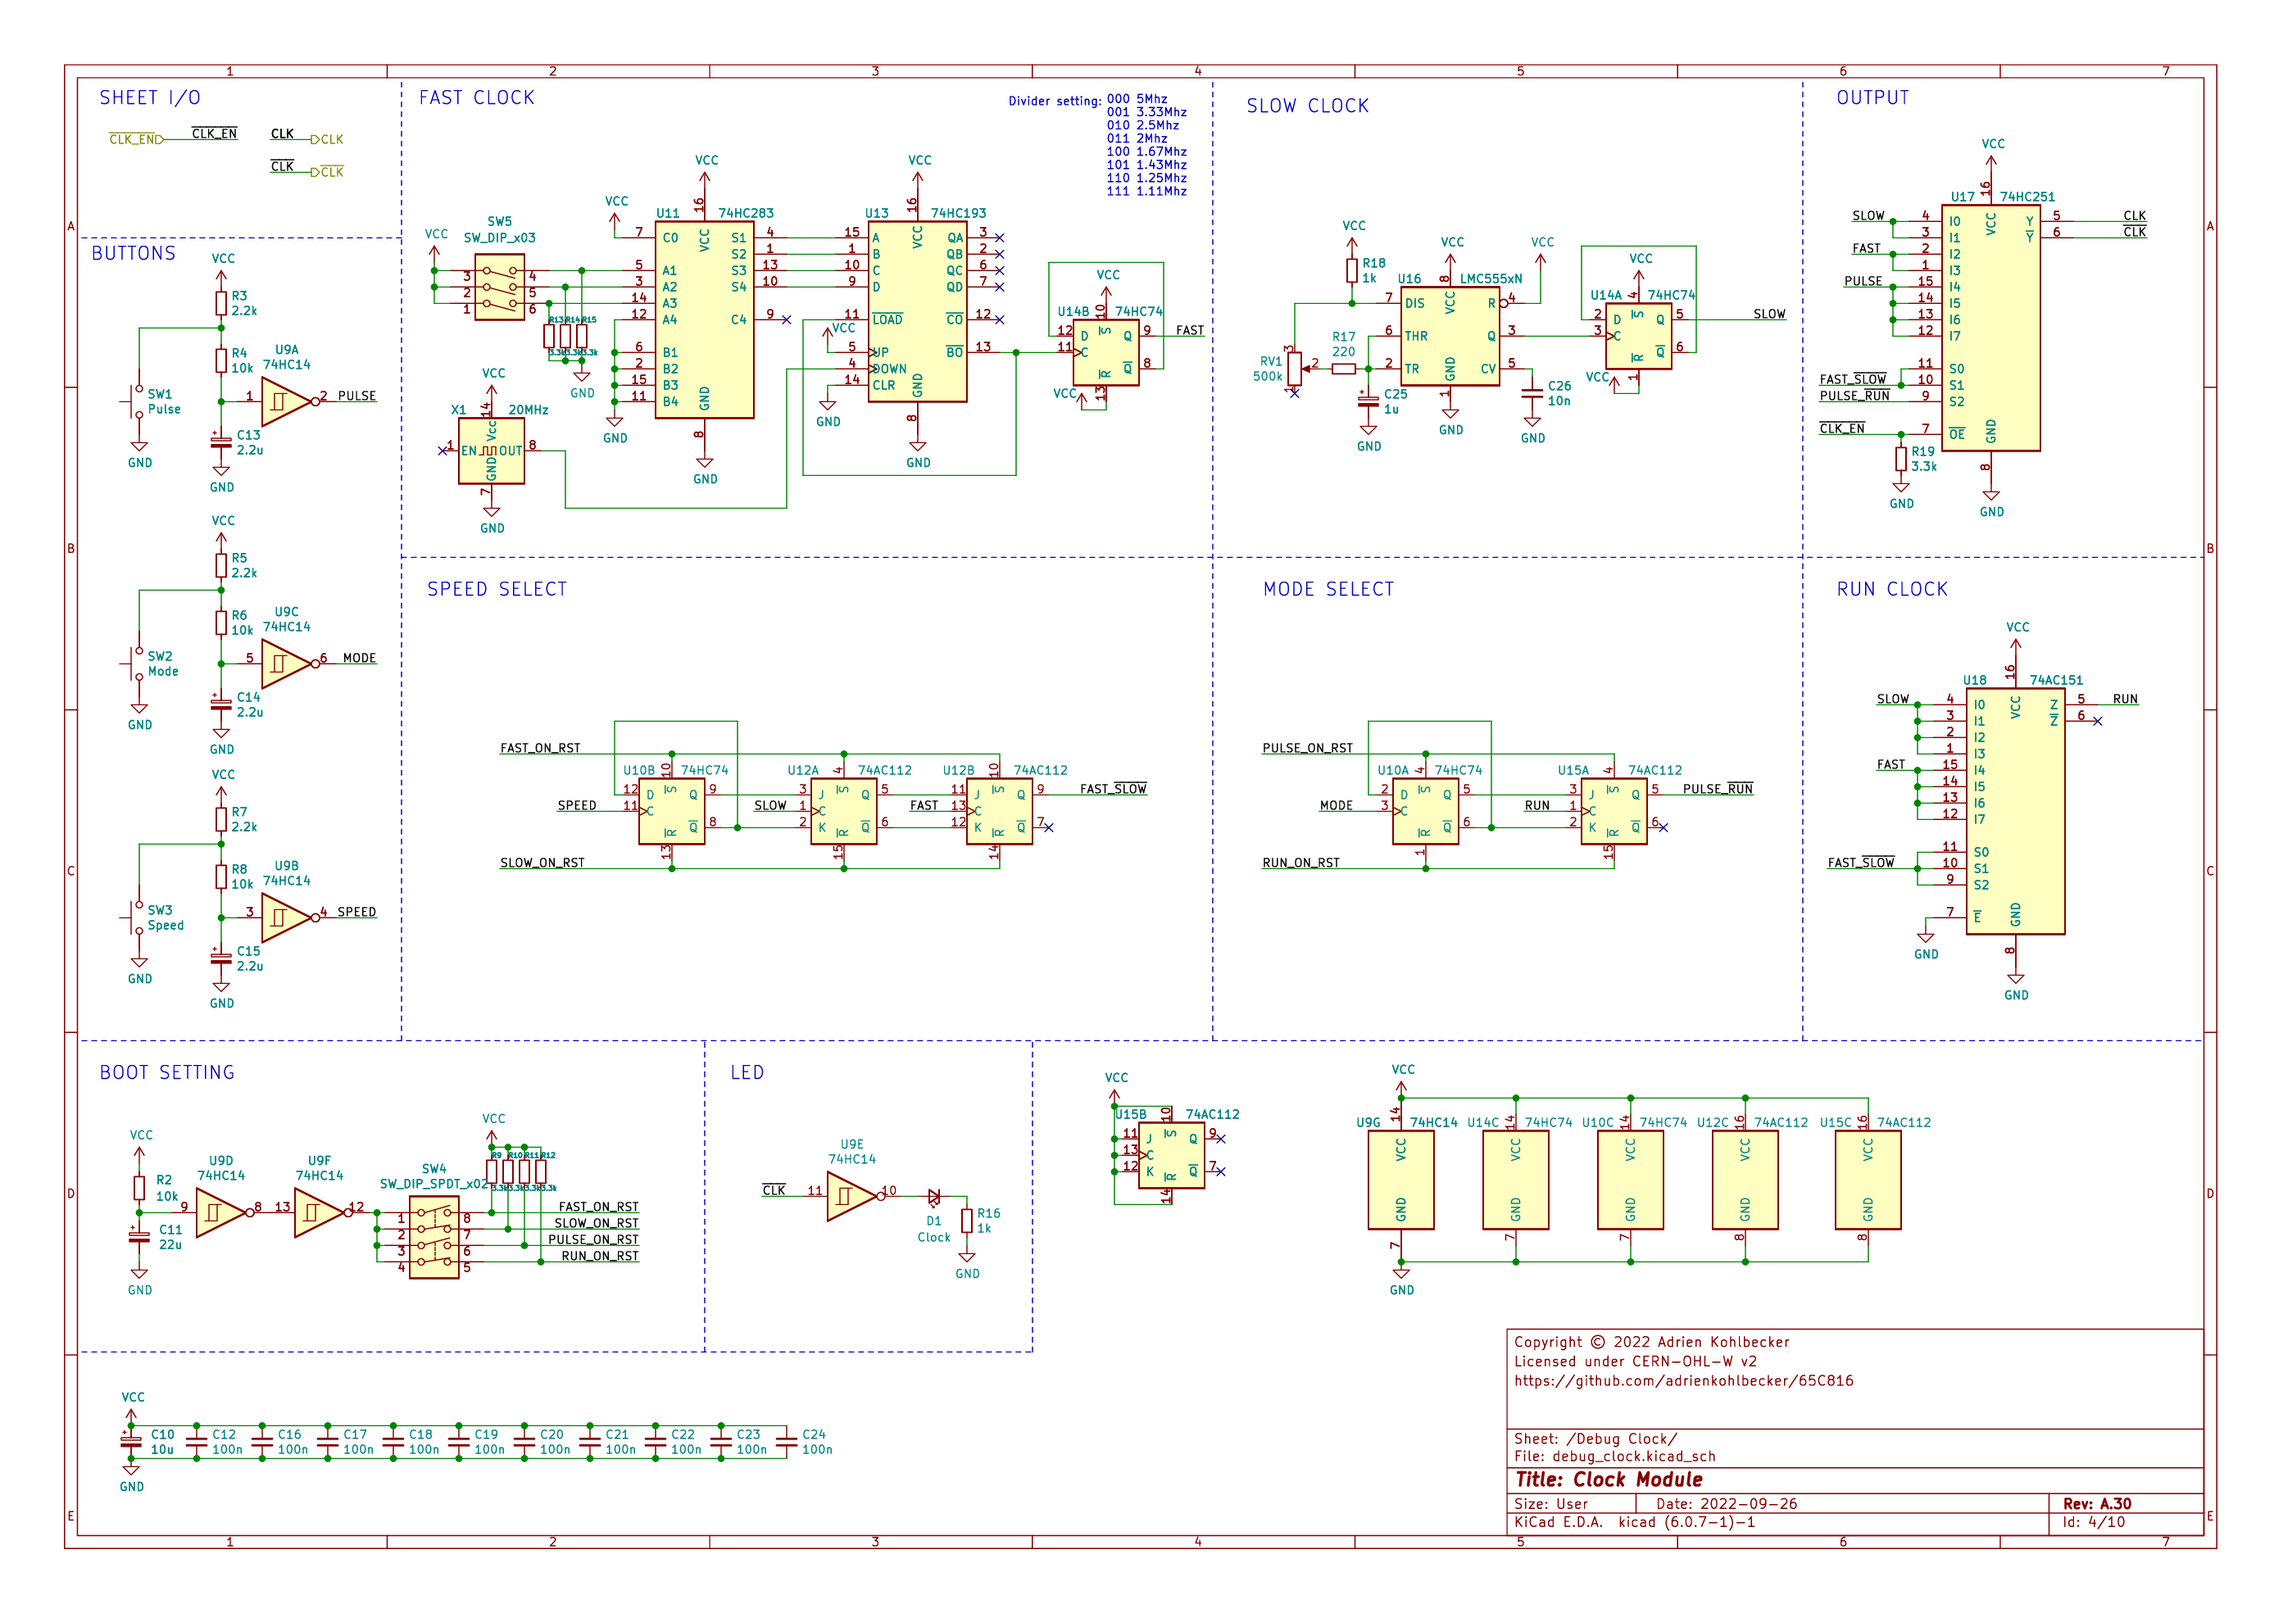
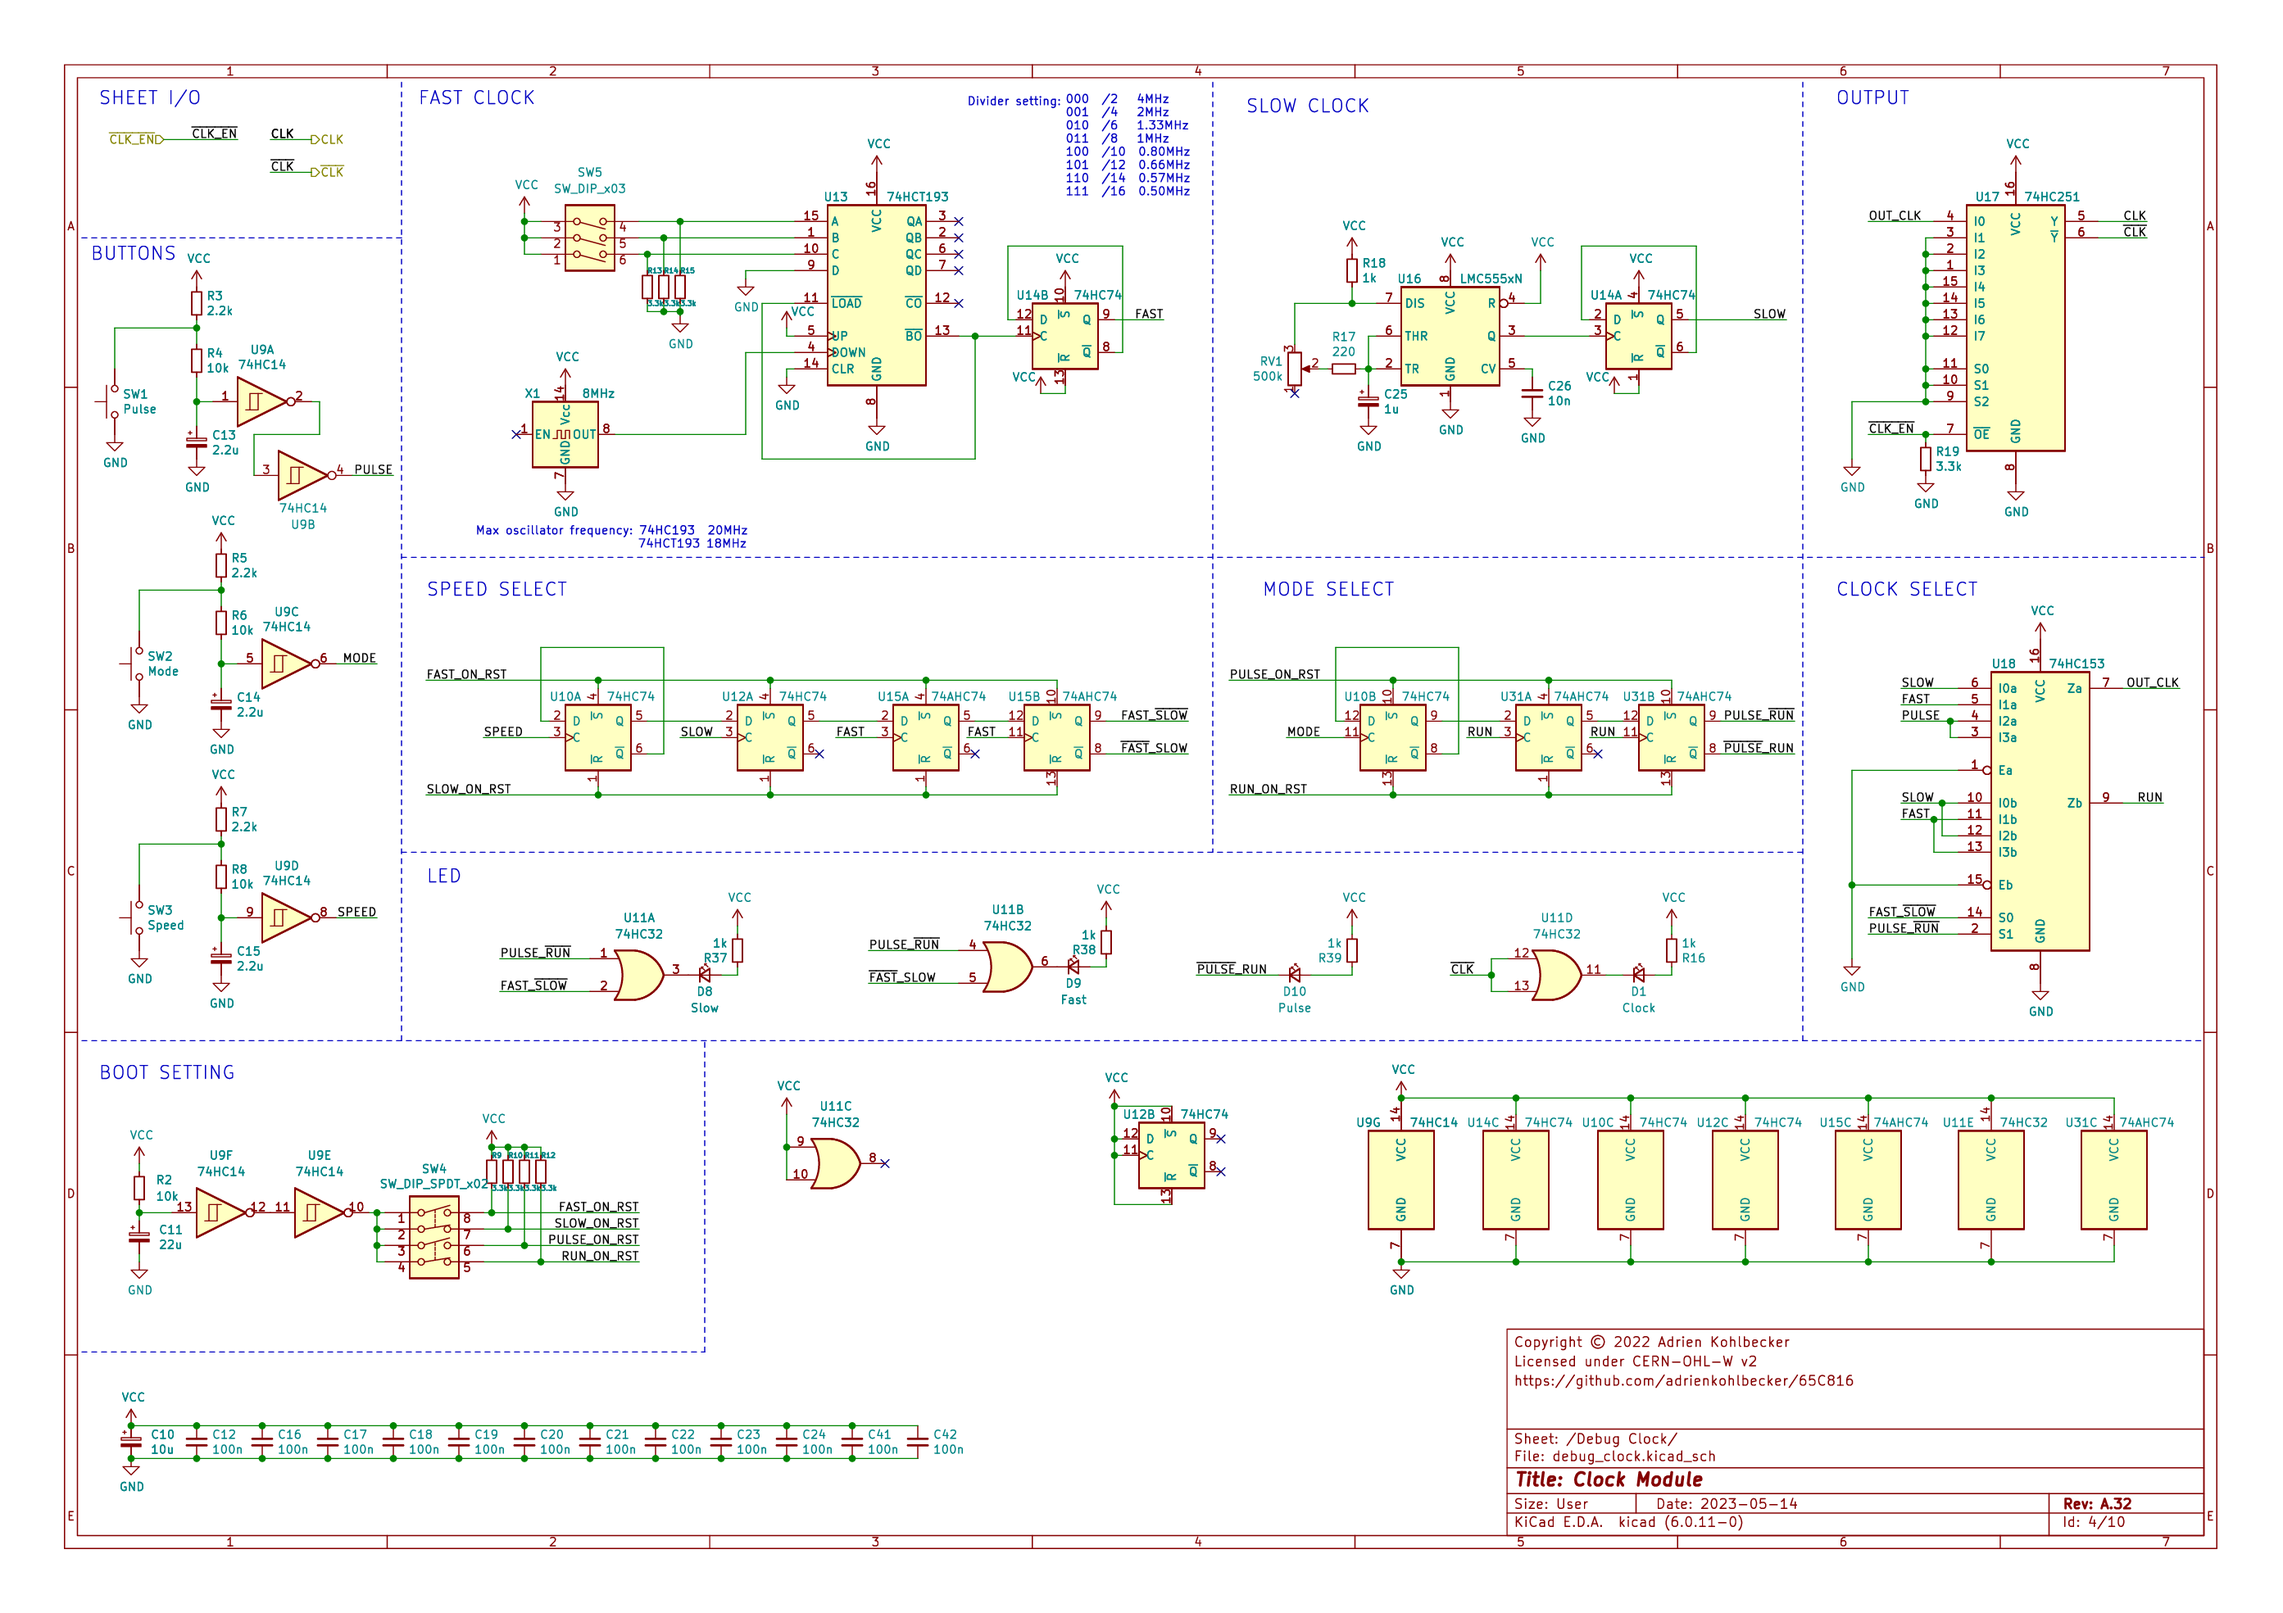
Episode 32

diff --git a/thumbnails/thumbnail.py b/thumbnails/thumbnail.py
@@ -38,7 +38,8 @@ episodes = [
     'EEPROM\nProgrammer',
     'CPU breakout\nPart 5',
     '6551 UART\nwith USB adapter',
-    'ROM programmer\nMem Diagnostics'
+    'ROM programmer\nMem Diagnostics',
+    'Spring Cleaning'
 ]
 
 path = './thumbnails/'
@@ -46,7 +47,7 @@ pathfmt = path + '{:d}.{}'
 
 for num, episode in enumerate(episodes, start=0):
 
-    if num < 31:
+    if num < 32:
         continue
 
     with Image.open(pathfmt.format(num, 'png')) as im:

diff --git a/README.md b/README.md
@@ -13,7 +13,7 @@ I'm not going for ludicrous speed and features for revision A, here are the goal
 - Runs at 4Mhz
 - Prototyped on a breadboard, through-hole ICs only, no programmable logic
 - 32KB RAM, 32KB ROM, 512KB extended RAM
-- 65C22 and 65C21 for peripheral I/O
+- 65C22 for peripheral I/O
 - 65C51 for UART
 
 The goals of the YouTube series are to provide a good description of all the design decisions, including going in-depth on timing, to be a more advanced complement to something like Ben Eater's 6502 series, as well as show more love to this cool CPU in the homebrew community.
@@ -116,7 +116,7 @@ The goals of the YouTube series are to provide a good description of all the des
 
 ### Rest of the computer
 
-**Component Count:** 144
+**Component Count:** 167
 
 | Refs | Qty | Component | Description |
 | ----- | --- | ---- | ----------- |
@@ -124,8 +124,9 @@ The goals of the YouTube series are to provide a good description of all the des
 | BAR2, BAR3, BAR4 | 3 | Yellow | BAR GRAPH 8 segment |
 | BAR5 | 1 | Green | BAR GRAPH 8 segment |
 | BAR6, BAR7, BAR8 | 3 | Red | BAR GRAPH 8 segment |
+| BAR9, BAR10 | 2 | LED-Array-8-GYR | BAR GRAPH 10 segment |
 | C1, C6, C10, C27 | 4 | 10u | Polarized capacitor, small symbol |
-| C2, C3, C4, C5, C7, C8, C9, C12, C16, C17, C18, C19, C20, C21, C22, C23, C24, C28, C29, C30, C31, C32, C33, C34, C35, C36, C37, C38, C39 | 29 | 100n | Unpolarized capacitor, small symbol |
+| C2, C3, C4, C5, C7, C8, C9, C12, C16, C17, C18, C19, C20, C21, C22, C23, C24, C28, C29, C30, C31, C32, C33, C34, C35, C36, C37, C38, C39, C41, C42, C43, C44 | 33 | 100n | Unpolarized capacitor, small symbol |
 | C11 | 1 | 22u | Polarized capacitor, small symbol |
 | C13, C14, C15 | 3 | 2.2u | Polarized capacitor, small symbol |
 | C25 | 1 | 1u | Polarized capacitor, small symbol |
@@ -133,10 +134,9 @@ The goals of the YouTube series are to provide a good description of all the des
 | C40 | 1 | 470n | Unpolarized capacitor, small symbol |
 | D1 | 1 | Clock | Light emitting diode, small symbol |
 | D2, D7 | 2 | 1N5819 | 40V 1A Schottky Barrier Rectifier Diode, DO-41 |
-| D3 | 1 | Rx | Light emitting diode, small symbol |
-| D4 | 1 | Tx | Light emitting diode, small symbol |
-| D5 | 1 | USBCFG | Light emitting diode, small symbol |
-| D6 | 1 | I2C | Light emitting diode, small symbol |
+| D8 | 1 | Slow | Light emitting diode, small symbol |
+| D9 | 1 | Fast | Light emitting diode, small symbol |
+| D10 | 1 | Pulse | Light emitting diode, small symbol |
 | DS1 | 1 | HD44780 | LCD 16x2 Alphanumeric , 8 bit parallel bus, 5V VDD |
 | J1 | 1 | Tester | Generic connector, single row, 01x08, script generated (kicad-library-utils/schlib/autogen/connector/) |
 | J2 | 1 | USB_B | USB Type B connector |
@@ -145,10 +145,10 @@ The goals of the YouTube series are to provide a good description of all the des
 | R1, R9, R10, R11, R12, R13, R14, R15, R19, R20, R34, R35, R36 | 13 | 3.3k | Resistor, small symbol |
 | R2, R4, R6, R8 | 4 | 10k | Resistor, small symbol |
 | R3, R5, R7 | 3 | 2.2k | Resistor, small symbol |
-| R16, R18, R25, R26, R27, R30, R31, R32, R33 | 9 | 1k | Resistor, small symbol |
+| R16, R18, R25, R26, R27, R31, R32, R37, R38, R39, R41, R42 | 12 | 1k | Resistor, small symbol |
 | R17 | 1 | 220 | Resistor, small symbol |
-| R21, R22, R23, R24 | 4 | 6.8k | Resistor, small symbol |
-| R28, R29 | 2 | 1.5k | Resistor, small symbol |
+| R21, R22, R23, R24, R33, R43, R44, R45, R46, R47, R48, R49, R50, R51 | 14 | 6.8k | Resistor, small symbol |
+| R28, R29, R30, R40 | 4 | 1.5k | Resistor, small symbol |
 | RN1, RN2, RN3 | 3 | 1k | 8 resistor network, star topology, bussed resistors, small symbol |
 | RN4, RN7 | 2 | 3.3k | 8 resistor network, star topology, bussed resistors, small symbol |
 | RN5, RN6, RN8 | 3 | 1.5k | 8 resistor network, star topology, bussed resistors, small symbol |
@@ -169,21 +169,21 @@ The goals of the YouTube series are to provide a good description of all the des
 | U7 | 1 | LY62256PL-55LL | 32Kx8 bit Low Power CMOS Static RAM, 55/70ns, DIP-28 |
 | U8 | 1 | AS6C4008-55PCN | 512K x 8 Low Power CMOS RAM, DIP-32 |
 | U9 | 1 | 74HC14 | Hex inverter schmitt trigger |
-| U10, U14 | 2 | 74HC74 | Dual D Flip-flop, Set & Reset |
-| U11 | 1 | 74HC283 | 4-bit full Adder |
-| U12, U15 | 2 | 74AC112 | dual JK Flip-Flop, Set & Reset |
-| U13 | 1 | 74HC193 | Synchronous 4-bit Up/Down (2 clk) counter |
+| U10, U12, U14 | 3 | 74HC74 | Dual D Flip-flop, Set & Reset |
+| U11 | 1 | 74HC32 | Quad 2-input OR |
+| U13 | 1 | 74HCT193 | Synchronous 4-bit Up/Down (2 clk) counter |
+| U15, U31 | 2 | 74AHC74 | Dual D Flip-flop, Set & Reset |
 | U16 | 1 | LMC555xN | CMOS Timer, 555 compatible, PDIP-8 |
 | U17 | 1 | 74HC251 | Multiplexer 8 to 1, 3-state Outputs |
-| U18 | 1 | 74AC151 | Multiplexer 8 to 1 |
+| U18 | 1 | 74HC153 | Dual Multiplexer 4 to 1 |
 | U19 | 1 | 74HC04 | Hex Inverter |
 | U20 | 1 | 74HC540 | 8-bit Buffer/Line driver Inverter, 3-state outputs |
-| U21, U22, U23, U24, U27, U28 | 6 | 74HC541 | 8-bit Buffer/Line Driver 3-state outputs |
+| U21, U22, U23, U24, U27, U28, U32, U33 | 8 | 74HC541 | 8-bit Buffer/Line Driver 3-state outputs |
 | U25 | 1 | Teensy++2.0 |  |
 | U26 | 1 | W65C22SxP | W65C22S CMOS Versatile Interface Adapter (VIA), 20-pin I/O, 2 Timer/Counters, DIP-40 |
-| U29 | 1 | W65C51NxP | W65C51N CMOS Asynchronous Communication Interface Adapter (ACIA), Serial UART, DIP-28 |
+| U29 | 1 | W65C51NxP | W65C21N CMOS Peripheral Interface Adapter (PIA), 20-pin I/O, NMOS-Compatible, DIP-40 |
 | U30 | 1 | MCP2221AxP | USB to I2C/UART Protocol Converter with GPIO, DIP-14 |
-| X1 | 1 | 20MHz | Crystal Clock Oscillator, DIP14-style metal package |
+| X1 | 1 | 8MHz | Crystal Clock Oscillator, DIP14-style metal package |
 | X2 | 1 | 1.8432MHz | Crystal Clock Oscillator, DIP8-style metal package |
 
 ### Used in previous videos
